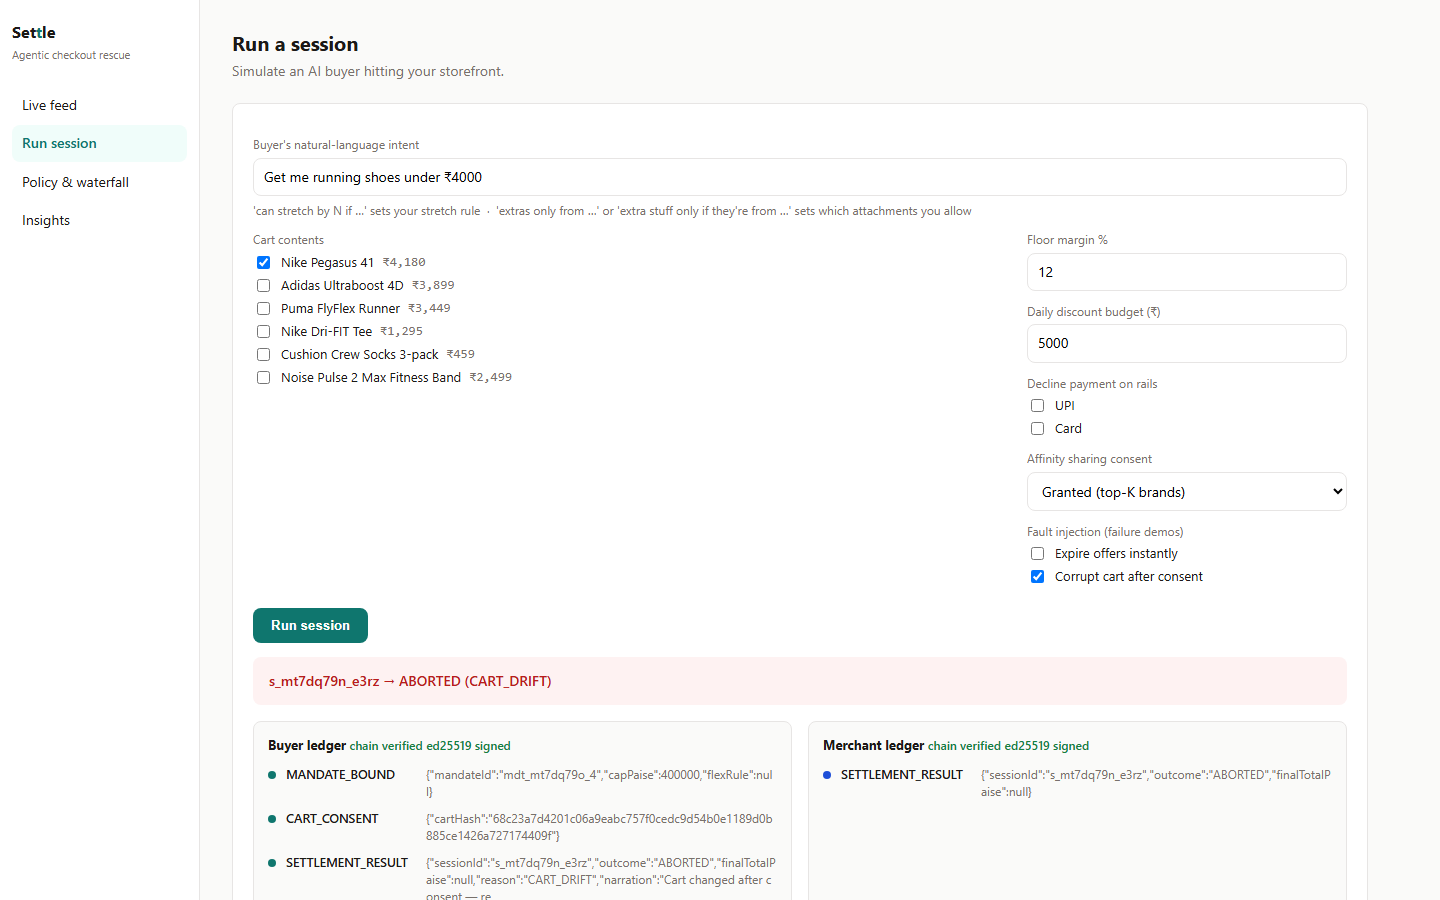
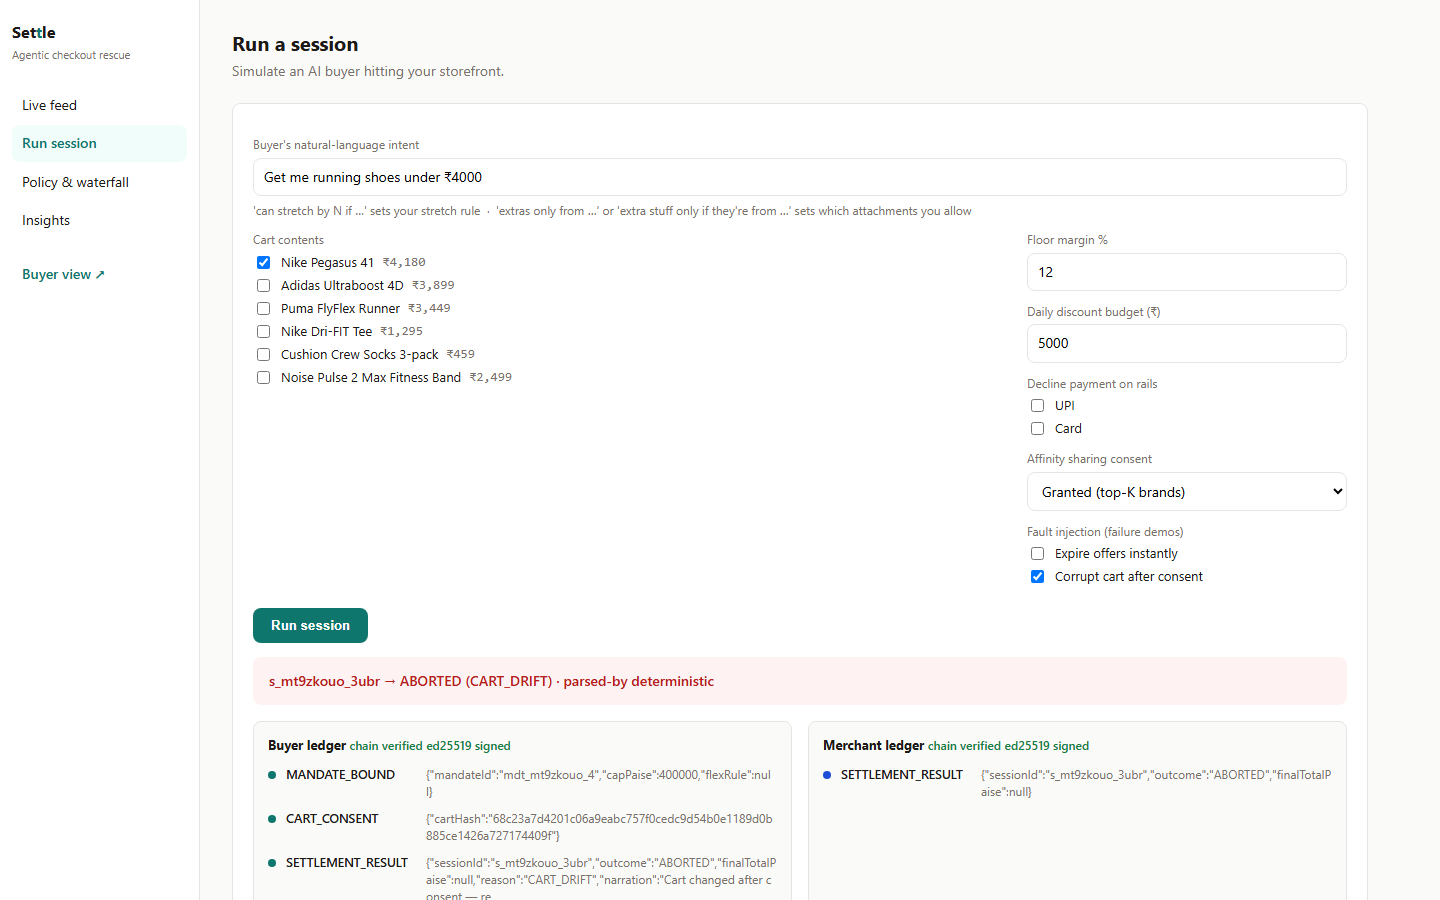
feat(buyer): /buyer dashboard — voice intent, live timeline, itemized why-bill

diff --git a/public/buyer.html b/public/buyer.html
@@ -1,0 +1,322 @@
+<!doctype html>
+<html lang="en">
+<head>
+<meta charset="utf-8">
+<meta name="viewport" content="width=device-width, initial-scale=1">
+<title>Settle — Buyer Agent</title>
+<style>
+  :root{
+    --bg:#FAFAF9; --card:#FFFFFF; --ink:#1C1917; --muted:#78716C;
+    --accent:#0F766E; --ok:#15803D; --warn:#B45309; --bad:#B91C1C; --info:#1D4ED8;
+    --line:#E7E5E4;
+  }
+  *{box-sizing:border-box}
+  body{margin:0;background:var(--bg);color:var(--ink);
+    font:14px/1.45 -apple-system,"Segoe UI",Roboto,Inter,sans-serif;}
+  .mono{font-family:"JetBrains Mono",ui-monospace,Consolas,monospace;font-variant-numeric:tabular-nums}
+  header{background:var(--card);border-bottom:1px solid var(--line);padding:14px 28px;display:flex;justify-content:space-between;align-items:center}
+  .brand{font-weight:700;font-size:16px}
+  .brand span{color:var(--accent)}
+  header .side{font-size:12px;color:var(--muted)}
+  header .side a{color:var(--accent);text-decoration:none;font-weight:600}
+  main{max-width:860px;margin:0 auto;padding:26px 20px 60px}
+  h1{font-size:19px;margin:0 0 4px}
+  .page-sub{color:var(--muted);margin-bottom:20px;font-size:13px}
+  .panel{background:var(--card);border:1px solid var(--line);border-radius:8px;padding:18px;margin-bottom:18px}
+  .panel h2{margin:0 0 4px;font-size:14px}
+  .panel .sub{color:var(--muted);font-size:12px;margin:0 0 12px}
+  textarea{width:100%;min-height:64px;padding:10px;border:1px solid var(--line);border-radius:8px;font:inherit;background:#fff;resize:vertical}
+  .intent-row{display:flex;gap:10px;align-items:flex-start;margin-top:10px}
+  button{background:var(--accent);color:#fff;border:0;border-radius:8px;padding:10px 16px;font-weight:600;cursor:pointer;font-size:13px}
+  button:disabled{opacity:.5;cursor:not-allowed}
+  button.ghost{background:#fff;color:var(--ink);border:1px solid var(--line)}
+  #mic-btn.listening{background:var(--bad)}
+  .hint{color:var(--muted);font-size:11.5px;margin-top:8px}
+  .chips{display:flex;flex-wrap:wrap;gap:8px;margin-top:12px}
+  .chip{display:inline-flex;align-items:center;gap:6px;padding:2px 9px;border-radius:99px;font-size:11.5px;font-weight:600}
+  .chip i{width:7px;height:7px;border-radius:50%;display:inline-block}
+  .chip.ok{background:#F0FDF4;color:var(--ok)} .chip.ok i{background:var(--ok)}
+  .chip.bad{background:#FEF2F2;color:var(--bad)} .chip.bad i{background:var(--bad)}
+  .chip.warn{background:#FFFBEB;color:var(--warn)} .chip.warn i{background:var(--warn)}
+  .chip.info{background:#EFF6FF;color:var(--info)} .chip.info i{background:var(--info)}
+  .chip.plain{background:#F5F5F4;color:var(--ink)}
+  .skus label{display:flex;align-items:center;gap:8px;margin:6px 0;font-size:13px}
+  .banner{padding:14px 16px;border-radius:8px;margin:14px 0;font-weight:500;display:none}
+  .banner.ok{background:#F0FDF4;color:var(--ok);display:block}
+  .banner.bad{background:#FEF2F2;color:var(--bad);display:block}
+  .banner.warn{background:#FFFBEB;color:var(--warn);display:block}
+  ol.timeline{list-style:none;margin:0;padding:0}
+  ol.timeline li{display:flex;gap:12px;padding:9px 0;border-bottom:1px dashed var(--line);align-items:baseline}
+  ol.timeline li:last-child{border-bottom:0}
+  ol.timeline .n{color:var(--muted);font-size:11px;min-width:20px;text-align:right}
+  ol.timeline .dot{width:8px;height:8px;border-radius:50%;background:var(--accent);flex-shrink:0;align-self:center}
+  ol.timeline .msg{font-size:13px}
+  ol.timeline .note{color:var(--muted);font-size:12px;margin-top:2px}
+  table.bill{width:100%;border-collapse:collapse;margin-top:6px}
+  table.bill td{padding:7px 4px;border-bottom:1px dashed var(--line);font-size:13px}
+  table.bill td.num{text-align:right;font-family:"JetBrains Mono",ui-monospace,monospace;font-variant-numeric:tabular-nums}
+  table.bill tr.total td{font-weight:700;border-bottom:0;padding-top:10px}
+  table.bill tr.relief td{color:var(--ok)}
+  table.bill .why{color:var(--muted);font-size:11.5px;display:block;margin-top:1px}
+  .verify-badge{font-size:12px;font-weight:600}
+  .verify-badge.ok{color:var(--ok)} .verify-badge.bad{color:var(--bad)}
+  .receipt{margin-top:14px;padding-top:14px;border-top:1px solid var(--line)}
+  .receipt p{margin:6px 0 0;font-size:13px;color:#44403C}
+  .hidden{display:none}
+</style>
+</head>
+<body>
+<header>
+  <div class="brand">Set<span>t</span>le · buyer agent</div>
+  <div class="side">You are shopping through your AI agent. <a href="/">Open merchant console →</a></div>
+</header>
+<main>
+  <h1>Shop by voice, watch the negotiation</h1>
+  <p class="page-sub">Speak or type what you want and what you won't spend past. Your mandate does the talking — Settle's merchant engine either fits inside it, or loses the sale honestly.</p>
+
+  <section class="panel">
+    <h2>Your intent</h2>
+    <p class="sub">One sentence. Include a budget ("under ₹5000"), optionally a stretch rule and an extras rule.</p>
+    <textarea id="buyer-intent" data-testid="buyer-intent">Get me running shoes under ₹5000. Extras only from Jockey.</textarea>
+    <div class="intent-row">
+      <button id="mic-btn" data-testid="mic-btn" class="ghost">🎙 Speak</button>
+      <button id="parse-btn" data-testid="parse-btn" class="ghost">Read my mandate back</button>
+    </div>
+    <div class="chips hidden" id="intent-chips" data-testid="intent-chips"></div>
+    <p class="hint hidden" id="voice-note"></p>
+  </section>
+
+  <section class="panel">
+    <h2>Your cart</h2>
+    <p class="sub">Your agent assembled this from the merchant's catalog.</p>
+    <div class="skus" id="sku-list" data-testid="sku-list"></div>
+    <div style="margin-top:14px"><button id="run-btn" data-testid="run-btn">Run negotiation</button></div>
+  </section>
+
+  <div id="result-banner" class="banner" data-testid="buyer-banner"></div>
+
+  <section class="panel hidden" id="timeline-panel">
+    <h2>Negotiation, step by step</h2>
+    <p class="sub">Every step below is an entry in your hash-chained audit ledger.</p>
+    <ol class="timeline" id="timeline" data-testid="timeline"></ol>
+  </section>
+
+  <section class="panel hidden" id="bill-panel">
+    <h2>The bill — and why every line is there</h2>
+    <table class="bill" id="bill" data-testid="bill"></table>
+    <div style="margin-top:12px" id="trust-line" data-testid="trust-line"></div>
+    <div class="receipt hidden" id="receipt-wrap" data-testid="receipt">
+      <span class="chip info"><i></i>AI-generated receipt · post-hoc · outside audit chain</span>
+      <p id="receipt-text"></p>
+    </div>
+  </section>
+</main>
+
+<script type="module">
+const $ = (s) => document.querySelector(s);
+const esc = (v) => String(v ?? "").replace(/[&<>"']/g, c => ({ "&":"&amp;", "<":"&lt;", ">":"&gt;", '"':"&quot;", "'":"&#39;" }[c]));
+const paise = (v) => "\u20B9" + Number(v / 100).toLocaleString("en-IN", {maximumFractionDigits: 0});
+let catalog = [];
+let lastRun = null;
+
+async function loadCatalog() {
+  const res = await fetch("/api/catalog");
+  const data = await res.json();
+  catalog = data.catalog;
+  const list = $("#sku-list");
+  list.innerHTML = "";
+  for (const p of catalog) {
+    const l = document.createElement("label");
+    l.innerHTML = `<input type="checkbox" name="sku" value="${p.sku}"> ${esc(p.title)} <span class="mono muted">${paise(p.pricePaise)}</span>`;
+    list.appendChild(l);
+  }
+  const nike = list.querySelector('input[value="nike-peg-41"]');
+  if (nike) nike.checked = true;
+}
+
+const SpeechRecognition = window.SpeechRecognition || window.webkitSpeechRecognition;
+if (SpeechRecognition) {
+  const rec = new SpeechRecognition();
+  rec.lang = "en-IN";
+  rec.interimResults = true;
+  rec.continuous = false;
+  rec.onresult = (e) => {
+    $("#buyer-intent").value = [...e.results].map(r => r[0].transcript).join("");
+  };
+  rec.onend = () => setListening(false);
+  rec.onerror = () => setListening(false);
+  $("#mic-btn").addEventListener("click", () => {
+    if ($("#mic-btn").classList.contains("listening")) { rec.stop(); setListening(false); }
+    else { setListening(true); rec.start(); }
+  });
+} else {
+  $("#mic-btn").classList.add("hidden");
+  const note = $("#voice-note");
+  note.classList.remove("hidden");
+  note.textContent = "Voice input isn't available in this browser — typing works exactly the same.";
+}
+
+function setListening(on) {
+  const b = $("#mic-btn");
+  b.classList.toggle("listening", on);
+  b.textContent = on ? "● Listening…" : "🎙 Speak";
+}
+
+$("#parse-btn").addEventListener("click", async () => {
+  const btn = $("#parse-btn");
+  btn.disabled = true;
+  try {
+    const res = await fetch("/api/parse", {
+      method: "POST", headers: {"content-type":"application/json"},
+      body: JSON.stringify({ intentText: $("#buyer-intent").value }),
+    });
+    const data = await res.json();
+    const wrap = $("#intent-chips");
+    wrap.classList.remove("hidden");
+    if (!res.ok) {
+      wrap.innerHTML = `<span class="chip bad"><i></i>${esc(data.error ?? "Could not read that")}</span>`;
+      return;
+    }
+    const bits = [`Cap ${paise(data.capPaise)}`];
+    if (data.maxStretchPaise !== null && data.maxStretchPaise !== undefined) bits.push(`Can stretch ${paise(data.maxStretchPaise)} if conditions match`);
+    for (const c of data.softCriteria ?? []) bits.push(`Prefers ${esc(c.value)}`);
+    for (const c of data.attachmentCriteria ?? []) bits.push(`Extras only from ${esc(c.value)}`);
+    bits.push(`Rails: ${(data.allowedRails ?? []).join(", ")}`);
+    wrap.innerHTML =
+      bits.map(b => `<span class="chip plain">${b}</span>`).join("") +
+      `<span class="chip info"><i></i>read by ${data.parsedBy === "llm" ? "LLM · validated" : "deterministic parser"}</span>`;
+  } finally {
+    btn.disabled = false;
+  }
+});
+
+$("#run-btn").addEventListener("click", async () => {
+  const btn = $("#run-btn");
+  btn.disabled = true;
+  const skus = [...document.querySelectorAll('#sku-list input[name="sku"]:checked')].map(i => ({ sku: i.value, qty: 1 }));
+  try {
+    const res = await fetch("/api/session", {
+      method: "POST", headers: {"content-type":"application/json"},
+      body: JSON.stringify({ intentText: $("#buyer-intent").value, skus }),
+    });
+    const data = await res.json();
+    if (!res.ok) {
+      const b = $("#result-banner"); b.className = "banner bad"; b.textContent = data.error ?? "Session failed";
+      return;
+    }
+    lastRun = { request: { skus }, response: data };
+    renderResult(lastRun.request, data);
+  } finally {
+    btn.disabled = false;
+  }
+});
+
+function flexSuffix(flexRule) {
+  return flexRule ? ` · may stretch by ${paise(flexRule.maxStretchPaise)} on strong matches` : "";
+}
+
+const FUNDING_LABEL = {
+  brand: "the brand's funded campaign",
+  bank: "a bank-funded offer",
+  network: "a card-network-funded offer",
+  merchant_marketing: "the merchant's marketing budget",
+  merchant_margin: "the merchant's margin",
+};
+
+function humanize(ev) {
+  const e = ev.event ?? {};
+  switch (ev.kind) {
+    case "MANDATE_BOUND":
+      return { msg: `Your mandate was bound — hard cap ${paise(e.capPaise)}${flexSuffix(e.flexRule)}`,
+               note: `Mandate ${e.mandateId ?? ""}` };
+    case "CART_CONSENT":
+      return { msg: "You consented to this exact cart.", note: `cart hash ${String(e.cartHash ?? "").slice(0, 12)}…` };
+    case "INTENT_BLOCKED":
+      return { msg: `Cart is ${paise(e.gapPaise)} over your cap. Instead of walking away, the merchant was asked for options.` };
+    case "CROSS_SELL_OFFERED":
+      return { msg: `Merchant suggested one extra: ${e.title}.`, note: e.reason };
+    case "CROSS_SELL_ACCEPTED":
+      return { msg: "Extra accepted — it fits a rule you pre-approved.", note: `basis: ${e.basis}` };
+    case "CART_RECONSENTED":
+      return { msg: "Updated cart was re-consented before any payment." };
+    case "CROSS_SELL_DECLINED":
+      return { msg: `Extra declined — ${e.reason}.` };
+    case "OFFER_EVALUATED": {
+      const t = e.trace ?? {};
+      return { msg: `${e.accepted ? "Counter-offer accepted" : "Counter-offer declined"} · your gate said ${t.verdict}`, note: e.narration };
+    }
+    case "PAYMENT_ATTEMPT":
+      return e.ok
+        ? { msg: `Paid securely via ${String(e.rail).toUpperCase()} ✓`, note: e.razorpayOrderId ? `Razorpay order ${String(e.razorpayOrderId).slice(0, 18)}…` : null }
+        : { msg: `${String(e.rail).toUpperCase()} declined${e.errorCode ? ` (${e.errorCode})` : ""} — trying your next allowed rail.` };
+    case "SETTLEMENT_RESULT":
+      return { msg: `Settlement: ${e.outcome}${e.finalTotalPaise ? ` · you pay ${paise(e.finalTotalPaise)}` : ""}`, note: e.narration };
+    default:
+      return { msg: ev.kind };
+  }
+}
+
+function billRows(request, data) {
+  const bySku = Object.fromEntries(catalog.map(p => [p.sku, p]));
+  const rows = [];
+  let subtotal = 0;
+  for (const item of request.skus) {
+    const p = bySku[item.sku];
+    if (!p) continue;
+    subtotal += p.pricePaise * item.qty;
+    rows.push(`<tr><td>${esc(p.title)} × ${item.qty}</td><td class="num">${paise(p.pricePaise * item.qty)}</td></tr>`);
+  }
+  const offerEv = (data.merchantEvents ?? []).find(ev => ev.kind === "OFFER_RELEASED");
+  const offer = offerEv?.event?.offer ?? null;
+  const upEv = (data.buyerEvents ?? []).find(ev => ev.kind === "CROSS_SELL_ACCEPTED");
+  if (upEv?.event?.sku && bySku[upEv.event.sku]) {
+    const up = bySku[upEv.event.sku];
+    const why = ((data.buyerEvents ?? []).find(ev => ev.kind === "CROSS_SELL_OFFERED")?.event?.reason) ?? "fits a rule you pre-approved";
+    subtotal += up.pricePaise;
+    rows.push(`<tr><td>+ ${esc(up.title)}<span class="why">Why: ${esc(why)}</span></td><td class="num">${paise(up.pricePaise)}</td></tr>`);
+  }
+  const paid = data.finalTotalPaise ?? subtotal;
+  if (paid < subtotal) {
+    const relief = subtotal - paid;
+    const funding = FUNDING_LABEL[offer?.fundedBy] ?? "negotiated relief";
+    const own = offer?.merchantCostPaise ?? 0;
+    const mech = offer?.mechanism?.step ?? "";
+    rows.push(`<tr class="relief"><td>Rescue relief<span class="why">Paid for by ${esc(funding)} · mechanism: ${esc(mech)} · of which the merchant spent its own money: ${paise(own)}</span></td><td class="num">−${paise(relief)}</td></tr>`);
+  } else if (offer && (offer.mechanism?.step === "bundle_swap")) {
+    rows.push(`<tr><td colspan="2"><span class="why">Item swapped to an equivalent SKU so the total fit under your cap.</span></td></tr>`);
+  }
+  rows.push(`<tr class="total"><td>You pay</td><td class="num">${paise(paid)}</td></tr>`);
+  return rows.join("");
+}
+
+function renderResult(request, data) {
+  const b = $("#result-banner");
+  b.className = "banner " + (["PAID","DIRECT_PAID"].includes(data.outcome) ? "ok" : data.outcome === "ABORTED" ? "bad" : "warn");
+  const rzp = data.razorpayOrderId ? " · RZP " + String(data.razorpayOrderId).slice(0, 14) : "";
+  b.textContent = `${data.outcome}${data.paidVia ? " via " + String(data.paidVia).toUpperCase() : ""}${rzp}${data.reason ? " (" + data.reason + ")" : ""}`;
+
+  const steps = (data.buyerEvents ?? []).map(humanize);
+  $("#timeline").innerHTML = steps.map((s, i) =>
+    `<li><span class="n">${i + 1}</span><span class="dot"></span><span class="msg">${esc(s.msg)}${s.note ? `<div class="note">${esc(s.note)}</div>` : ""}</span></li>`).join("");
+  $("#timeline-panel").classList.remove("hidden");
+
+  $("#bill").innerHTML = billRows(request, data);
+  $("#trust-line").innerHTML =
+    `<span class="verify-badge ${data.verified ? "ok" : "bad"}" data-testid="verified-badge">${data.verified ? "✓ both audit chains verified" : "TAMPERED"}</span>` +
+    (data.tipSignatures?.buyer && data.tipSignatures?.merchant ? ' <span class="verify-badge ok">· ed25519 signed ledger tips</span>' : "") +
+    (data.parsedBy ? ` <span class="verify-badge" style="color:var(--muted)">· intent read by ${data.parsedBy === "llm" ? "LLM (schema-validated)" : "deterministic parser"}</span>` : "");
+  $("#bill-panel").classList.remove("hidden");
+
+  if (data.receipt?.text) {
+    $("#receipt-text").textContent = data.receipt.text;
+    $("#receipt-wrap").classList.remove("hidden");
+  } else {
+    $("#receipt-wrap").classList.add("hidden");
+  }
+  window.scrollTo({ top: document.body.scrollHeight, behavior: "smooth" });
+}
+
+loadCatalog();
+</script>
+</body>
+</html>

diff --git a/src/server/api.ts b/src/server/api.ts
@@ -73,6 +73,45 @@ const server = createServer(async (req, res) => {
     return;
   }
 
+  if (req.method === "GET" && url.pathname === "/buyer") {
+    const html = readFileSync(join(__dirname, "../../public/buyer.html"), "utf8");
+    res.writeHead(200, { "content-type": "text/html" });
+    res.end(html);
+    return;
+  }
+
+  if (req.method === "POST" && url.pathname === "/api/parse") {
+    const clientKey = req.socket.remoteAddress ?? "unknown";
+    if (!allowRequest(`parse:${clientKey}`)) {
+      send(res, 429, { error: "Too many requests. Slow down." });
+      return;
+    }
+    const body = await readJson(req);
+    const intentText = body.intentText?.trim();
+    if (!intentText) {
+      send(res, 400, { error: "intentText is required." });
+      return;
+    }
+    try {
+      const { parsed, parsedBy } = await parseIntentWithFallback(intentText);
+      send(res, 200, {
+        parsedBy,
+        capPaise: parsed.capPaise,
+        maxStretchPaise: parsed.maxStretchPaise,
+        softCriteria: parsed.softCriteria,
+        attachmentCriteria: parsed.attachmentCriteria,
+        allowedRails: parsed.allowedRails,
+      });
+    } catch (e) {
+      if (e instanceof ParseError) {
+        send(res, 400, { error: e.message });
+        return;
+      }
+      throw e;
+    }
+    return;
+  }
+
   if (req.method === "GET" && url.pathname === "/api/catalog") {
     send(res, 200, { catalog: CATALOG, offers: OFFER_SURFACE });
     return;

diff --git a/public/index.html b/public/index.html
@@ -74,6 +74,7 @@
     <a href="#" data-tab="run">Run session</a>
     <a href="#" data-tab="policy">Policy &amp; waterfall</a>
     <a href="#" data-tab="insights">Insights</a>
+    <a href="/buyer" style="margin-top:18px;color:var(--accent);font-weight:600">Buyer view ↗</a>
   </nav>
   <main>
     <section id="tab-feed">
@@ -153,7 +154,7 @@ const esc = (v) => String(v ?? "").replace(/[&<>"']/g, c => ({ "&":"&amp;", "<":
 const paise = (v) => "\u20B9" + Number(v / 100).toLocaleString("en-IN", {minimumFractionDigits: 0});
 let catalog = [];
 
-document.querySelectorAll("nav a").forEach(a => a.addEventListener("click", (e) => {
+document.querySelectorAll("nav a[data-tab]").forEach(a => a.addEventListener("click", (e) => {
   e.preventDefault();
   document.querySelectorAll("nav a").forEach(x => x.classList.remove("active"));
   a.classList.add("active");
